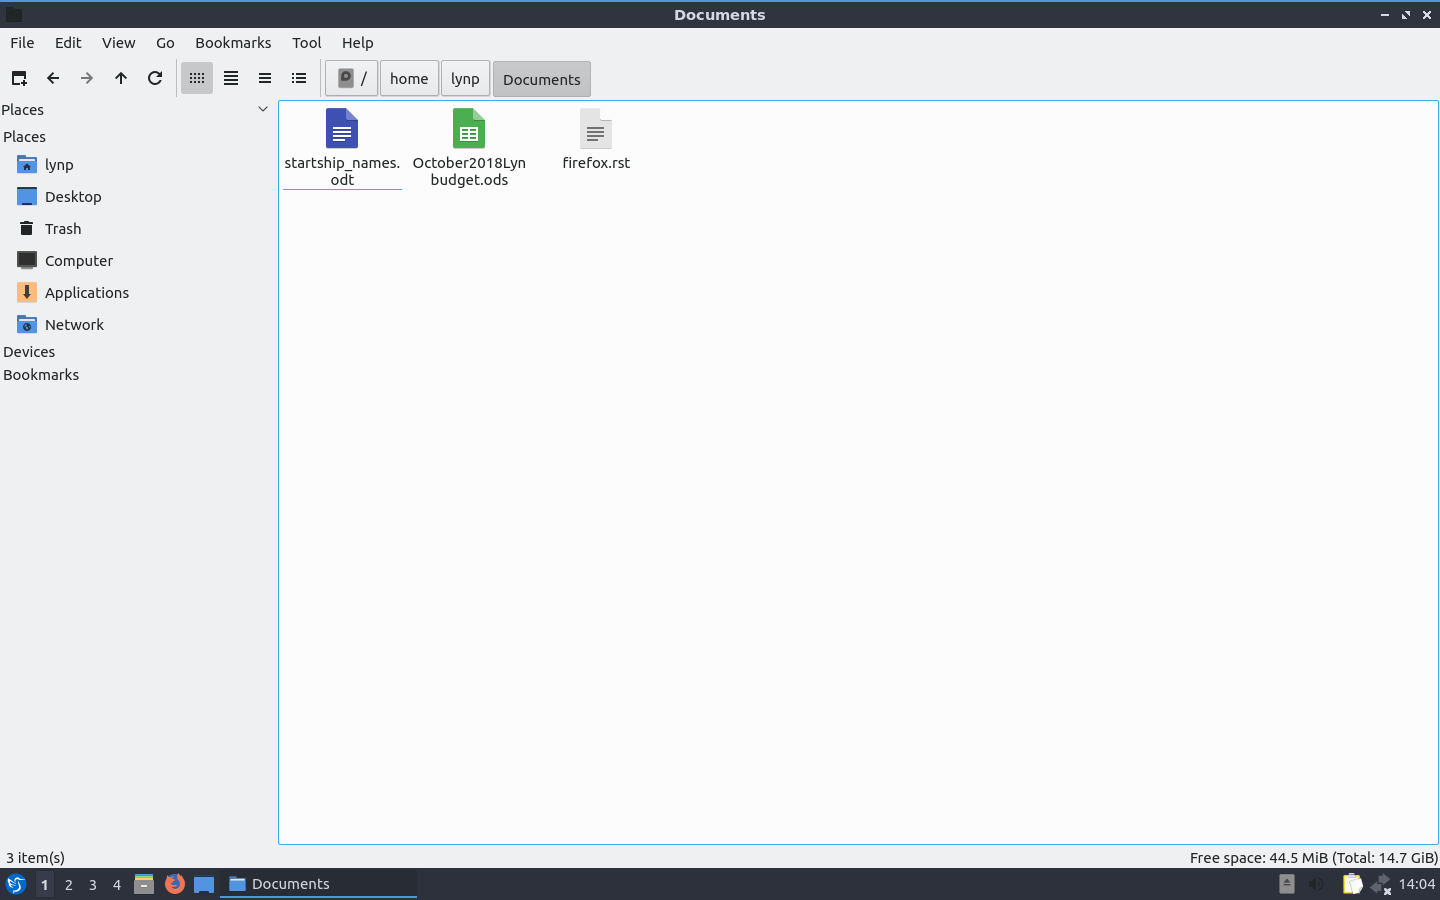
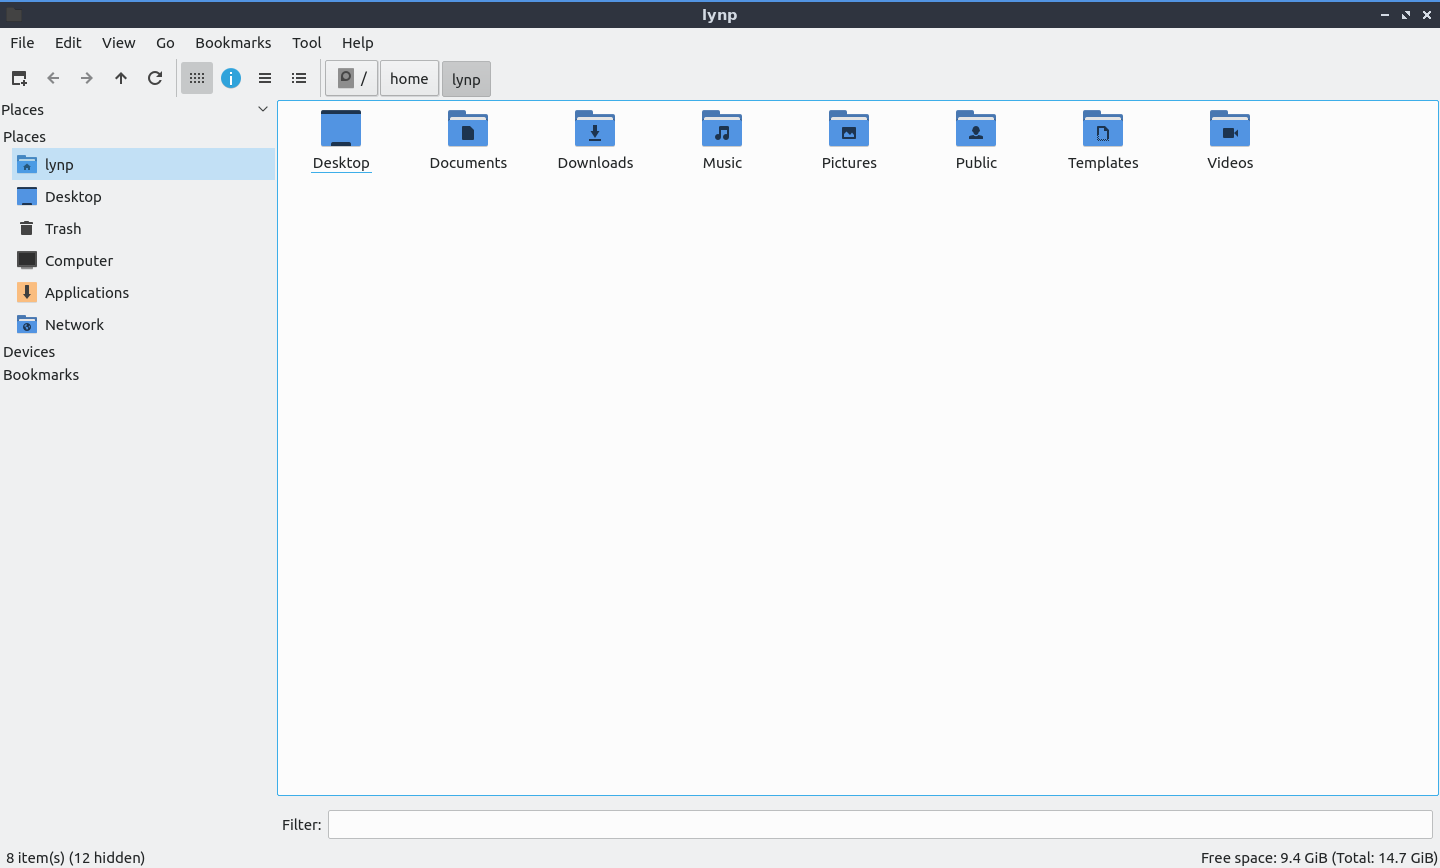
Add show hide fileterbar and new screenshot

Changed region(s): [[0.0, 0.0, 1.0, 0.4355], [0.0, 0.9332, 1.0, 1.0], [0.4688, 0.0, 0.5312, 0.0311]]

diff --git a/source/2/2.4/2.4.4/pcmanfm-qt.rst b/source/2/2.4/2.4.4/pcmanfm-qt.rst
@@ -49,7 +49,7 @@ Pcmanfm-Qt has different view modes which can be changed in the view menu. To se
 To reverse the order that pcmanfm-Qt sorts files :menuselection:`View --> Sorting --> Descending` or conversly to switch back :menuselection:`View --> Sorting -->Ascending.` To sort by file name :menuselection:`View --> Sorting --> By file name`. To sort by modification :menuselection:`View --> Sorting --> By modification time`. To sort by file size :menuselection:`View --> Sorting --> By file size`. To sort by file type :menuselection:`View --> Sorting --> By file type`. To sort by owner :menuselection:`View --> Sorting --> By Owner`. To seperate all folders first in sorting check the checkbox in :menuselection:`View --> Sorting --> Folder First`. To sort with case sensitive check the checkbox in :menuselection:`View --> Sorting --> Case sensitive`.  
 
 To change your path bar to buttons :menuselection:`View --> Pathbar --> Location` and to get 
-back to a pathbar you can type into :menuselection:`View --> Pathbar --> Path Buttons`. To toggle showing the menubar :kbd:`Control +M` or :menuselection:`View --> Toolbars --> Menubar` and uncheck the checkbox.  To get the menubar back press :kbd:`Control +M` again.
+back to a pathbar you can type into :menuselection:`View --> Pathbar --> Path Buttons`. To toggle showing the menubar :kbd:`Control +M` or :menuselection:`View --> Toolbars --> Menubar` and uncheck the checkbox.  To get the menubar back press :kbd:`Control +M` again. To toggle showing or hiding the permant filter bar press :kbd:`Control+B` or :menuselection:`View --> Toolbars --> Permanent filter bar`.
 
 .. image:: pathbar-location.png
 
